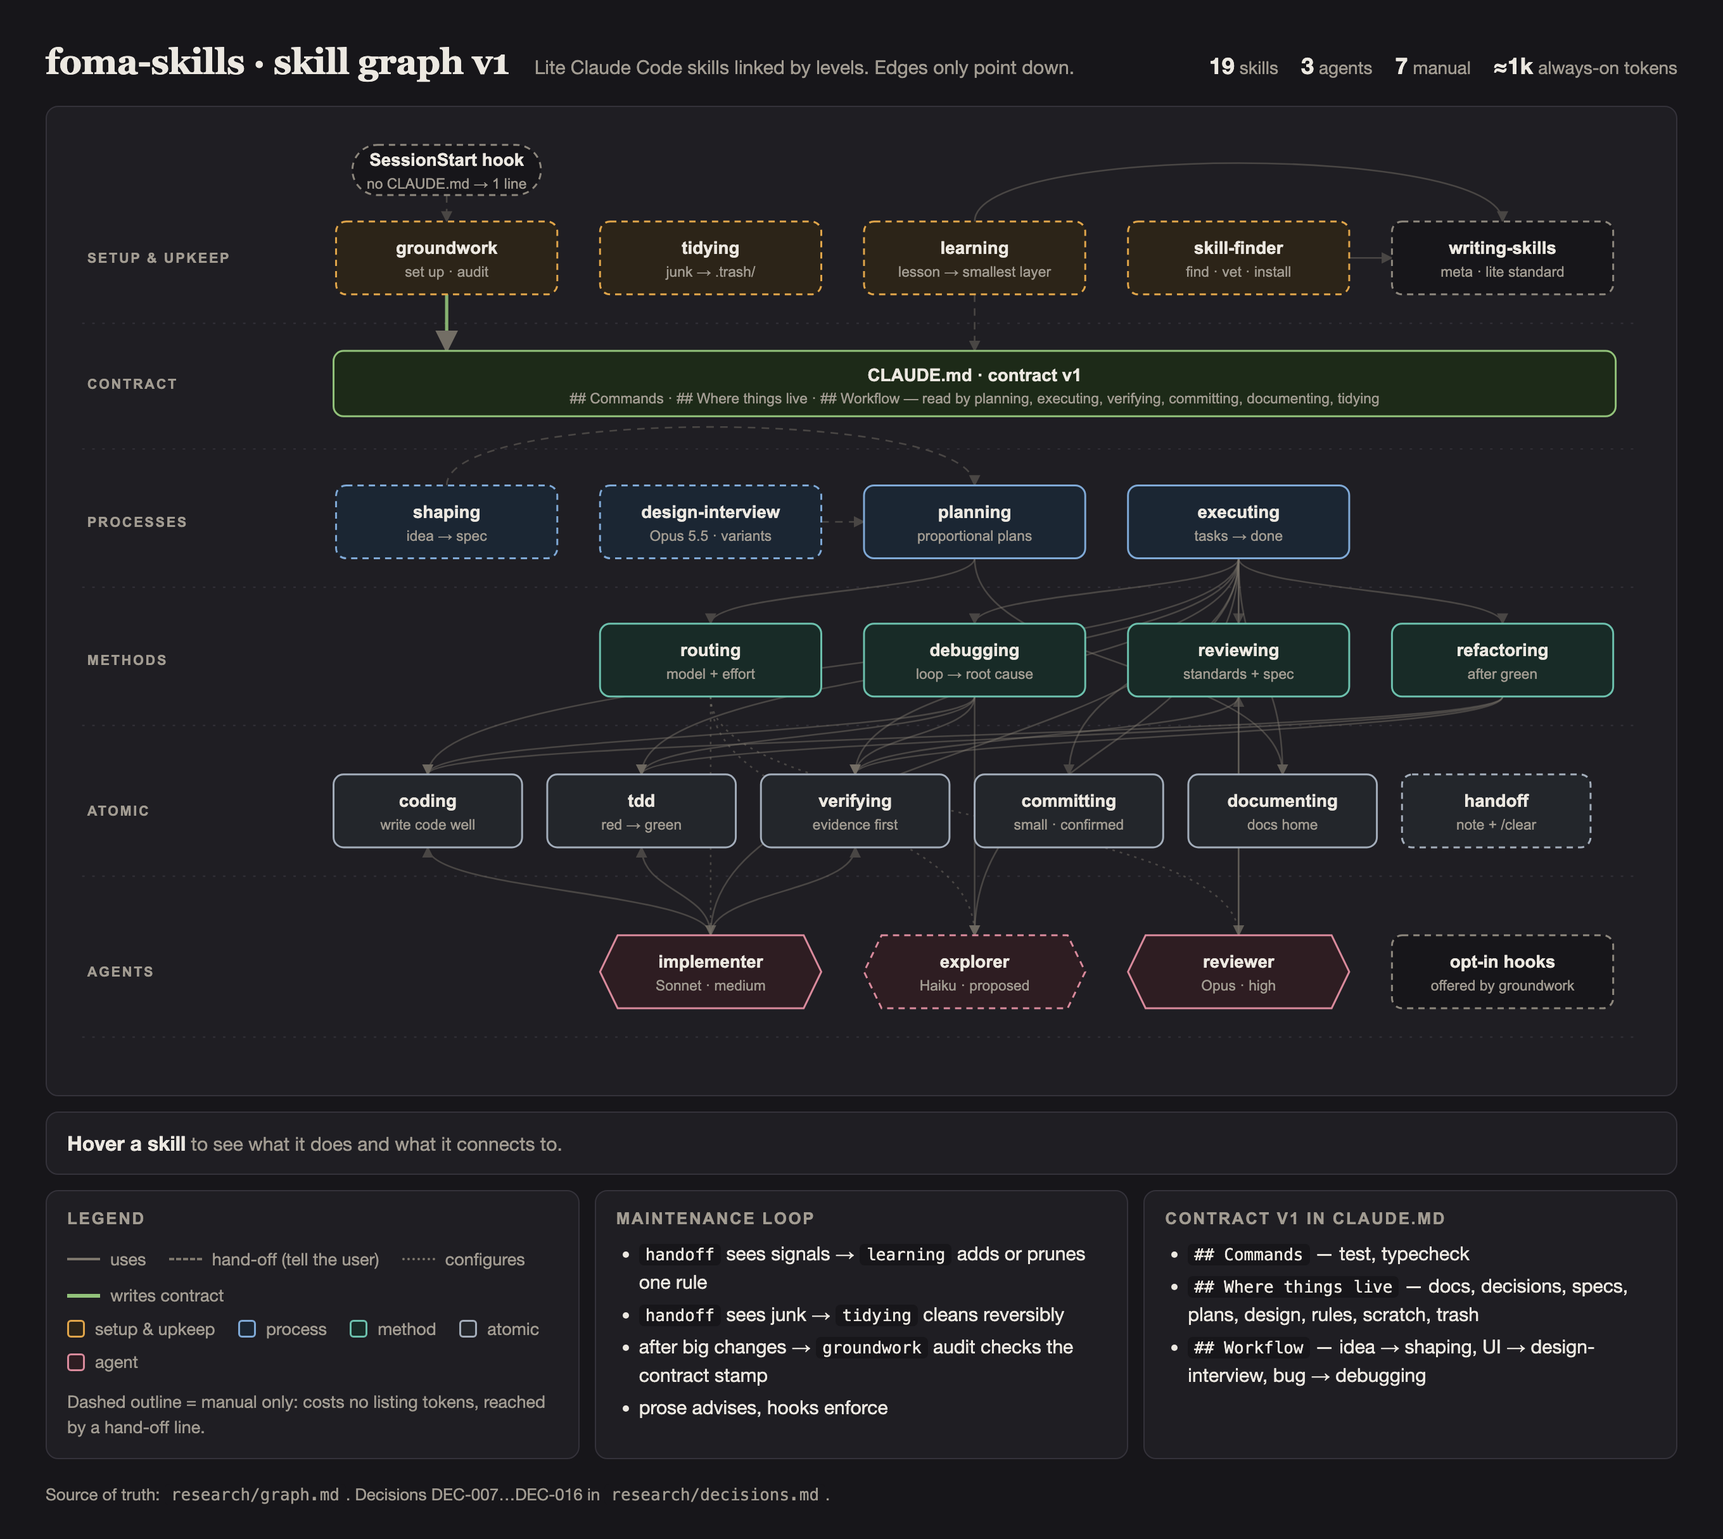
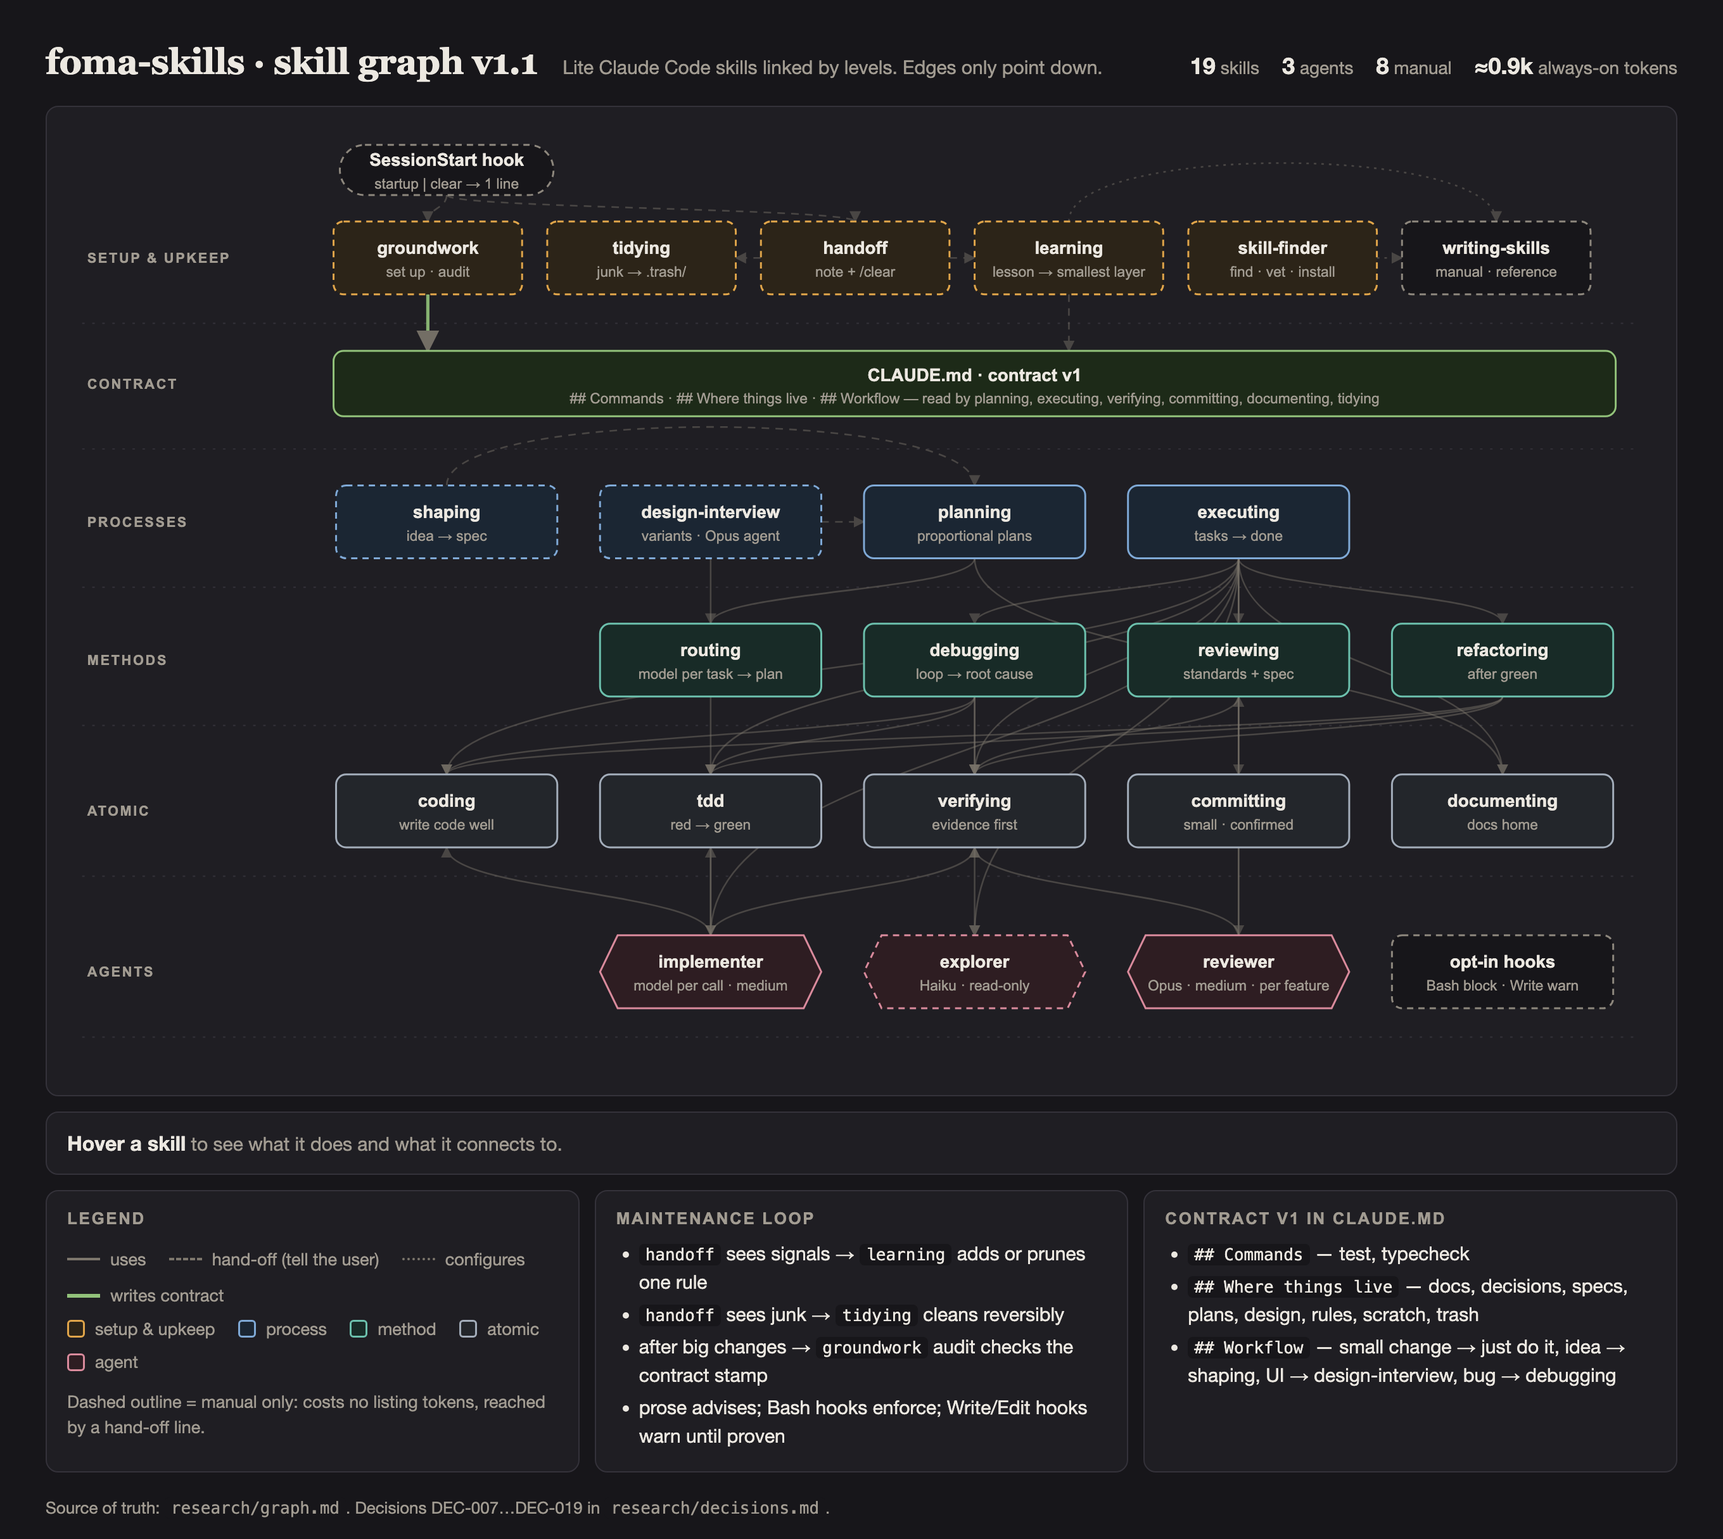
Apply graph review fixes and release graph v1.1

diff --git a/docs/graph.html b/docs/graph.html
@@ -65,9 +65,9 @@
 <body>
 <main>
   <header>
-    <h1>foma-skills · skill graph v1</h1>
+    <h1>foma-skills · skill graph v1.1</h1>
     <p>Lite Claude Code skills linked by levels. Edges only point down.</p>
-    <div class="stats"><span><b>19</b>skills</span><span><b>3</b>agents</span><span><b>7</b>manual</span><span><b>≈1k</b>always-on tokens</span></div>
+    <div class="stats"><span><b>19</b>skills</span><span><b>3</b>agents</span><span><b>8</b>manual</span><span><b>≈0.9k</b>always-on tokens</span></div>
   </header>
 
   <div class="board"><svg id="g" viewBox="0 0 1280 770" role="img" aria-label="Skill dependency graph"></svg></div>
@@ -93,7 +93,7 @@
         <li><code>handoff</code> sees signals → <code>learning</code> adds or prunes one rule</li>
         <li><code>handoff</code> sees junk → <code>tidying</code> cleans reversibly</li>
         <li>after big changes → <code>groundwork</code> audit checks the contract stamp</li>
-        <li>prose advises, hooks enforce</li>
+        <li>prose advises; Bash hooks enforce; Write/Edit hooks warn until proven</li>
       </ul>
     </div>
     <div class="card">
@@ -101,11 +101,11 @@
       <ul>
         <li><code>## Commands</code> — test, typecheck</li>
         <li><code>## Where things live</code> — docs, decisions, specs, plans, design, rules, scratch, trash</li>
-        <li><code>## Workflow</code> — idea → shaping, UI → design-interview, bug → debugging</li>
+        <li><code>## Workflow</code> — small change → just do it, idea → shaping, UI → design-interview, bug → debugging</li>
       </ul>
     </div>
   </div>
-  <footer>Source of truth: <code>research/graph.md</code>. Decisions DEC-007…DEC-016 in <code>research/decisions.md</code>.</footer>
+  <footer>Source of truth: <code>research/graph.md</code>. Decisions DEC-007…DEC-019 in <code>research/decisions.md</code>.</footer>
 </main>
 
 <script>
@@ -114,42 +114,42 @@ const X5 = [310, 520, 730, 940, 1150];
 const X6 = [295, 465, 635, 805, 975, 1145];
 const Y = { hook: 42, setup: 112, contract: 212, proc: 322, meth: 432, atom: 552, agent: 680 };
 const N = [
-  ['hook', 'SessionStart hook', 'no CLAUDE.md → 1 line', X5[0], Y.hook, 'meta', 0, 'Plugin hook: if the project has no CLAUDE.md, prints one line suggesting /groundwork.', 150, 40],
-  ['gw', 'groundwork', 'set up · audit', X5[0], Y.setup, C.setup, 1, 'Sets up or audits the workspace by the golden structure; writes the contract; offers hooks and agents; measures session-start token cost.'],
-  ['tidy', 'tidying', 'junk → .trash/', X5[1], Y.setup, C.setup, 1, 'Finds junk in three tiers, shows a report, removes reversibly after ok (git rm or .trash/<date>/). Never rm -rf.'],
-  ['learn', 'learning', 'lesson → smallest layer', X5[2], Y.setup, C.setup, 1, 'Turns repeated mistakes into the smallest fix (CLAUDE.md line, rule, hook, project skill) and prunes stale rules with equal weight.'],
-  ['find', 'skill-finder', 'find · vet · install', X5[3], Y.setup, C.setup, 1, 'Finds a skill for a need, shows source, license and code, installs only after ok, registers it in CLAUDE.md.'],
-  ['ws', 'writing-skills', 'meta · lite standard', X5[4], Y.setup, C.meta, 0, 'The lite standard for writing a skill: used by contributors, learning and skill-finder.'],
+  ['hook', 'SessionStart hook', 'startup | clear → 1 line', X5[0], Y.hook, 'meta', 0, 'Plugin hook, silent unless needed: no CLAUDE.md and no AGENTS.md → suggests /groundwork; a handoff note exists → prints its path.', 170, 40],
+  ['gw', 'groundwork', 'set up · audit', X6[0], Y.setup, C.setup, 1, 'Owns safety, contract and structure. Writes the contract, creates agent files, copies opt-in hooks into .claude/hooks/, measures session-start token cost.', 150],
+  ['tidy', 'tidying', 'junk → .trash/', X6[1], Y.setup, C.setup, 1, 'Owns files: junk in three tiers, stray docs, leftover plans. Report first, reversible removal after ok. Never rm -rf.', 150],
+  ['hand', 'handoff', 'note + /clear', X6[2], Y.setup, C.setup, 1, 'Session note in .claude/.scratch/, then /clear. Flags lessons for learning and junk for tidying; the plugin hook points to the note next session.', 150],
+  ['learn', 'learning', 'lesson → smallest layer', X6[3], Y.setup, C.setup, 1, 'Owns rule content: turns repeated mistakes into the smallest fix and prunes stale rules with equal weight.', 150],
+  ['find', 'skill-finder', 'find · vet · install', X6[4], Y.setup, C.setup, 1, 'Finds a skill, shows every file, never passes -y, pins a commit, installs only after ok, registers it in CLAUDE.md.', 150],
+  ['ws', 'writing-skills', 'manual · reference', X6[5], Y.setup, C.meta, 1, 'The lite standard for writing a skill. Manual for contributors; learning and skill-finder read it as a file.', 150],
   ['shape', 'shaping', 'idea → spec', X5[0], Y.proc, C.proc, 1, 'Questions a raw idea (AI asks, you write), challenges it, ends with docs/specs/<name>.md.'],
-  ['design', 'design-interview', 'Opus 5.5 · variants', X5[1], Y.proc, C.proc, 1, 'Interviews you about the look, shows 2–4 variants side by side in the browser, records the choice in docs/design/.'],
-  ['plan', 'planning', 'proportional plans', X5[2], Y.proc, C.proc, 0, 'Small → just do it; feature → check spec; multi-step → task files with model and effort per task.'],
-  ['exec', 'executing', 'tasks → done', X5[3], Y.proc, C.proc, 0, 'Runs plan tasks inline or via agents, reviews, adds a retro line, archives the finished plan.'],
-  ['route', 'routing', 'model + effort', X5[1], Y.meth, C.meth, 0, 'Assigns model and effort per task and writes them into agent files. UI always goes to Opus 5.5.'],
+  ['design', 'design-interview', 'variants · Opus agent', X5[1], Y.proc, C.proc, 1, 'Interviews you about the look; an agent called with model: opus builds 2–4 variants for a browser gallery; the choice goes to docs/design/.'],
+  ['plan', 'planning', 'proportional plans', X5[2], Y.proc, C.proc, 0, 'Small → just do it; feature → check spec; multi-step → task files with a model per task.'],
+  ['exec', 'executing', 'tasks → done', X5[3], Y.proc, C.proc, 0, 'Runs 1–2 task plans inline, larger ones via agents with the plan\'s model; review once per feature; archives the plan.'],
+  ['route', 'routing', 'model per task → plan', X5[1], Y.meth, C.meth, 0, 'Picks a model per plan task by its nature: Opus complex, Sonnet routine, Haiku light (code only behind tests). Writes it into the plan, no config files.'],
   ['dbg', 'debugging', 'loop → root cause', X5[2], Y.meth, C.meth, 0, 'Feedback loop first, reproduce, hypothesise, fix with a regression test.'],
   ['rev', 'reviewing', 'standards + spec', X5[3], Y.meth, C.meth, 0, 'Reviews against project rules and the spec; UI anti-slop list; compact verdict.'],
   ['ref', 'refactoring', 'after green', X5[4], Y.meth, C.meth, 0, 'Behaviour-preserving change after tests are green, outside the tdd loop.'],
-  ['code', 'coding', 'write code well', X6[0], Y.atom, C.atom, 0, 'Ask when unclear, simplest solution, touch only what the task needs, no swallowed errors, never edit tests to pass, check packages exist.', 150],
-  ['tdd', 'tdd', 'red → green', X6[1], Y.atom, C.atom, 0, 'Agreed seams, vertical slices, expected values from an independent source.', 150],
-  ['ver', 'verifying', 'evidence first', X6[2], Y.atom, C.atom, 0, 'Evidence per change type before "done"; only failing tests in output; a "not checked" line.', 150],
-  ['com', 'committing', 'small · confirmed', X6[3], Y.atom, C.atom, 0, 'Small commits in the style from CLAUDE.md; confirms; never pushes on its own.', 150],
-  ['doc', 'documenting', 'docs home', X6[4], Y.atom, C.atom, 0, 'Puts docs in the docs home; decision entries with status and the three-gate filter.', 150],
-  ['hand', 'handoff', 'note + /clear', X6[5], Y.atom, C.atom, 1, 'Session note in .claude/.scratch/, then /clear; flags lessons for learning and junk for tidying.', 150],
-  ['impl', 'implementer', 'Sonnet · medium', X5[1], Y.agent, C.agent, 0, 'Agent that writes code. Preloads coding, tdd, verifying. Haiku only behind tests.'],
-  ['expl', 'explorer', 'Haiku · proposed', X5[2], Y.agent, C.agent, 0, 'Proposed read-only agent for noisy search; returns at most 10 lines.'],
-  ['rvw', 'reviewer', 'Opus · high', X5[3], Y.agent, C.agent, 0, 'Agent that reviews changes. Preloads reviewing.'],
-  ['hooks', 'opt-in hooks', 'offered by groundwork', X5[4], Y.agent, 'meta', 0, 'Compact re-inject, stray docs, critical commands, test-gaming guard, swallowed-error guard, backup names, git guard.'],
+  ['code', 'coding', 'write code well', X5[0], Y.atom, C.atom, 0, 'Ask when unclear, simplest solution, touch only what the task needs, no swallowed errors, never edit tests to pass, check packages exist.'],
+  ['tdd', 'tdd', 'red → green', X5[1], Y.atom, C.atom, 0, 'Agreed seams, vertical slices, expected values from an independent source.'],
+  ['ver', 'verifying', 'evidence first', X5[2], Y.atom, C.atom, 0, 'Evidence per change type before "done"; only failing tests in output; a "not checked" line.'],
+  ['com', 'committing', 'small · confirmed', X5[3], Y.atom, C.atom, 0, 'Small commits in the style from CLAUDE.md; confirms; never pushes on its own.'],
+  ['doc', 'documenting', 'docs home', X5[4], Y.atom, C.atom, 0, 'Puts docs in the docs home; decision entries with status and the three-gate filter.'],
+  ['impl', 'implementer', 'model per call · medium', X5[1], Y.agent, C.agent, 0, 'Agent that writes code. One file, effort medium; the model comes from the plan at each call. Preloads coding, tdd, verifying.'],
+  ['expl', 'explorer', 'Haiku · read-only', X5[2], Y.agent, C.agent, 0, 'Read/Grep/Glob only — cannot change anything. Noisy search, returns at most 10 lines.'],
+  ['rvw', 'reviewer', 'Opus · medium · per feature', X5[3], Y.agent, C.agent, 0, 'Reviews once per feature; per task only for risky diffs. Preloads reviewing and verifying.'],
+  ['hooks', 'opt-in hooks', 'Bash block · Write warn', X5[4], Y.agent, 'meta', 0, 'Copied into .claude/hooks/ by groundwork. Bash hooks block; Write/Edit hooks only warn until live-tested.'],
 ];
 const E = [
-  ['hook','gw','handoff'], ['learn','ws'], ['find','ws'],
-  ['shape','plan','handoff'], ['design','plan','handoff'],
+  ['hook','gw','handoff'], ['hook','hand','handoff'],
+  ['hand','tidy','handoff'], ['hand','learn','handoff'], ['learn','ws','config'], ['find','ws','config'],
+  ['shape','plan','handoff'], ['design','plan','handoff'], ['design','impl'],
   ['plan','route'], ['plan','doc'],
   ['exec','dbg'], ['exec','rev'], ['exec','ref'],
   ['exec','code'], ['exec','tdd'], ['exec','ver'], ['exec','com'], ['exec','doc'],
   ['exec','impl'], ['exec','rvw'], ['exec','expl'],
   ['dbg','code'], ['dbg','tdd'], ['dbg','ver'], ['dbg','expl'],
   ['ref','code'], ['ref','tdd'], ['ref','ver'], ['rev','ver'],
-  ['route','impl','config'], ['route','rvw','config'], ['route','expl','config'],
-  ['impl','code'], ['impl','tdd'], ['impl','ver'], ['rvw','rev'],
+  ['impl','code'], ['impl','tdd'], ['impl','ver'], ['rvw','rev'], ['rvw','ver'],
 ];
 const ns = 'http://www.w3.org/2000/svg';
 const svg = document.getElementById('g');
@@ -195,7 +195,7 @@ const ct = el('text', { x: 730, y: Y.contract - 2, 'text-anchor': 'middle' }, cb
 const cs = el('text', { x: 730, y: Y.contract + 16, 'text-anchor': 'middle', class: 'sub' }, cb);
 cs.textContent = '## Commands  ·  ## Where things live  ·  ## Workflow   —   read by planning, executing, verifying, committing, documenting, tidying';
 nodes.contract = { id: 'contract', job: 'One section block in the root CLAUDE.md. groundwork writes it; skills read paths and commands from it. Missing line → golden default.', label: 'contract v1', x: 730, y: Y.contract, w: 1020, h: 52 };
-for (const a of ['gw', 'learn']) {
+for (const a of ['gw', 'learn']) {  // groundwork writes; learning proposes
   const s = nodes[a];
   const p = el('path', { d: `M${s.x},${s.y + s.h / 2} L${s.x},${Y.contract - 26}`, class: a === 'gw' ? 'edge writes' : 'edge handoff', 'marker-end': 'url(#ar)' }, gE);
   edgeEls.push({ p, a, b: 'contract' });

diff --git a/research/decisions.md b/research/decisions.md
@@ -22,3 +22,4 @@ Single decision log for the project.
 | DEC-016 | 2026-11-12 | Cleanup skill `tidying` (working name), manual only; `handoff` adds one line when the session left junk. **Junk tiers:** T1 safe candidates — OS junk (CC0 lists), merge/backup leftovers (`*.bak`, `*.orig`, `*.rej`, `*~`, `_old/_backup/_copy/_vN/_final/_new` copies next to an original), Claude temp (`tmpclaude-*-cwd`, `tmp/attachments`), zero-byte strays, empty dirs. T2 review — untracked scratch/debug scripts, `.md` outside the docs home, logs, screenshots, large untracked files, detector hits (knip/vulture/cargo-machete only if already installed, and only with a second signal: no grep reference); finished plans are archived, not deleted. T3 never — `.env*`, secrets, data, assets, untracked source not matching patterns, `.git`, nested repos. **Removal:** report-only manifest first, grouped by tier; after user ok per group: tracked → `git rm`, untracked → move to gitignored `.trash/<timestamp>/` with a manifest (original path, git HEAD); `.trash/` emptied only on request; never `rm -rf` or `git clean -f`. **Structure:** checks placement against `## Where things live`; a junk type seen twice → propose adding its pattern to `.gitignore`/hook (bigger rules go through `learning`). **Prevention (opt-in via `groundwork`):** `.gitignore` block (`tmpclaude-*-cwd`, `.claude/.scratch/`, `.trash/`, OS junk); CLAUDE.md line "scratch goes to `.claude/.scratch/`; never create `_old/_v2/.bak` copies — edit in place, commit before risky edits"; PreToolUse hook on backup-name patterns, live-tested first (FACT-105) | OS trash tools; auto-delete of T1; separate prevention skill | User: junk = everything unneeded, rest delegated after research. Evidence NOTE-222..227, PROB-012, PROB-013 | Status: accepted |
 | DEC-017 | 2026-11-12 | Routing rule by the nature of the task and project: Opus 5.5 — complex or non-obvious code, architecture, judgment, UI (DEC-009); Sonnet 5.5 — routine code from a ready plan; Haiku 5.5 — search, summaries, mechanical edits, code only behind tests. `routing` writes model + effort per plan task; the user sees and can change it. Verified on 5 tested tasks in stage 6 (IDEA-074, IDEA-077) | All code on Opus | User approval of Claude's proposal; NOTE-181 (Sonnet equal pass at −62% on easy tasks), FACT-084, Pro limits | Status: accepted |
 | DEC-018 | 2026-11-12 | Graph v1 accepted pending a fresh review. `explorer` agent added: Haiku 5.5, effort low, tools Read/Grep/Glob only (cannot change anything), returns ≤10 lines. `handoff` note in `.claude/.scratch/handoff.md` (gitignored, transient) | Docs home for handoff; no explorer | User: graph ok, explorer only if it can't do harm, handoff location ok | Status: accepted |
+| DEC-019 | 2026-11-12 | Apply the fresh graph review (13 fixes): `routing` writes a model per plan task only, `groundwork` creates agent files at setup; one `implementer` with effort medium and model passed per call; plugin SessionStart hook (`startup|clear`) points to the handoff note and stays silent when AGENTS.md exists; opt-in hooks copied into `.claude/hooks/` + `.claude/settings.json`; Write/Edit hooks only warn until live-tested; one owner per check (groundwork safety/contract/structure, learning rule content, tidying files); Workflow line "small change → just do it"; reviewer Opus medium once per feature; inline execution for 1–2 task plans; skill-finder hard rules; design-interview builds variants via an agent with `model: opus`; `handoff` moved to setup & upkeep; `writing-skills` manual + reference file | Two implementer variants; keep v1 as is | User ok; review findings verified against FACT-009, 021, 023, 026, 038, 039, 046, 056, 057, 062, 076, 077, 105 | Status: accepted |

diff --git a/docs/golden-structure.md b/docs/golden-structure.md
@@ -82,7 +82,7 @@ A conclusion that changes how code is written also becomes a line in CLAUDE.md o
 | Test-gaming guard | `PreToolUse` on Edit/Write | Ask when an edit adds skip/xit/@ts-ignore/eslint-disable/`type: ignore` | NOTE-214, NOTE-220 |
 | Swallowed-error guard | `PreToolUse` on Edit/Write | Warn on empty catch, `except: pass`, `\|\| true` | NOTE-216, NOTE-220 |
 
-Hooks use shell builtins only and are tested on Git Bash (NOTE-042). Off by default; `groundwork` offers them.
+Hooks use shell builtins only and are tested on Git Bash (NOTE-042). Off by default; `groundwork` offers them, copies the scripts into `.claude/hooks/` and registers them in `.claude/settings.json` (plugin hooks are always on, FACT-056; plugin paths change on update, FACT-062). Bash hooks block; Write/Edit hooks only warn until live-tested (FACT-105).
 
 ## Special cases
 
@@ -105,19 +105,21 @@ Hooks use shell builtins only and are tested on Git Bash (NOTE-042). Off by defa
 
 ## groundwork audit checklist
 
+`groundwork` owns safety, contract and structure. Rule content (stale, duplicate, contradicting rules) belongs to `learning`; junk files, stray `*.md` and leftover plans belong to `tidying` — the audit hands off to them (DEC-019).
+
 Safety first (read-only, reported before any write):
 - [ ] `.claude/settings*.json` hooks, `env` (esp. `ANTHROPIC_BASE_URL`), `enableAllProjectMcpServers`, `.mcp.json` servers — listed for the user (PROB-027).
 
 Structure:
 - [ ] Root CLAUDE.md ≤200 lines; no trees, dependency lists, overviews, duplicates (P1).
 - [ ] Commands run; referenced paths exist.
-- [ ] No contradictions between root, nested CLAUDE.md, rules, skills (PROB-003, PROB-022).
-- [ ] Old `verified` stamps / rules naming removed tools (PROB-004).
+- → `learning`: contradictions between root, nested CLAUDE.md, rules, skills (PROB-003, PROB-022).
+- → `learning`: old `verified` stamps / rules naming removed tools (PROB-004).
 - [ ] `MEMORY.md` ≤200 lines (PROB-009).
 - [ ] `.gitignore` has personal files and does not ignore all of `.claude/` (PROB-017, PROB-018).
 - [ ] No secrets in `.claude/`; no symlinked instruction files (PROB-029, PROB-011).
 - [ ] AGENTS.md + CLAUDE.md/CLAUDE.local.md trap (PROB-025).
-- [ ] Stray `*.md` outside the docs home; finished plans not archived (PROB-012, PROB-013).
+- → `tidying`: stray `*.md` outside the docs home; finished plans not archived (PROB-012, PROB-013).
 - [ ] Decisions without status (PROB-014).
 
 ## Open points
